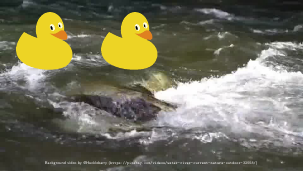
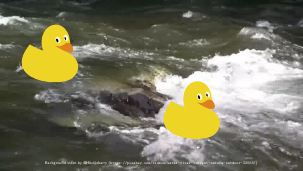
white water ride: changed length

diff --git a/samcarter/whitewaterride/whitewaterride.tex b/samcarter/whitewaterride/whitewaterride.tex
@@ -37,11 +37,11 @@
     \floatingduck{35cm}{8cm}
     \floatingduck{40cm}{9cm}
     \floatingduck{50cm}{11cm}    
-    \floatingduck{70cm}{15cm}
-    \floatingduck{73cm}{15cm}
-    \floatingduck{90cm}{18cm}  
-    \floatingduck{100cm}{19cm}     
-    \floatingduck{107cm}{19.5cm}                   
+%    \floatingduck{65cm}{13cm}
+%    \floatingduck{73cm}{15cm}
+%    \floatingduck{90cm}{18cm}  
+%    \floatingduck{100cm}{19cm}     
+%    \floatingduck{107cm}{19.5cm}                   
     
     % credit for background video
     \node[white,text width=.9\paperwidth,font=\tiny,align=center] at ([yshift=0.35cm]current page.south) {Background video by @Hucklebarry (\url{https://pixabay.com/videos/water-river-current-nature-outdoor-32558/})};    
